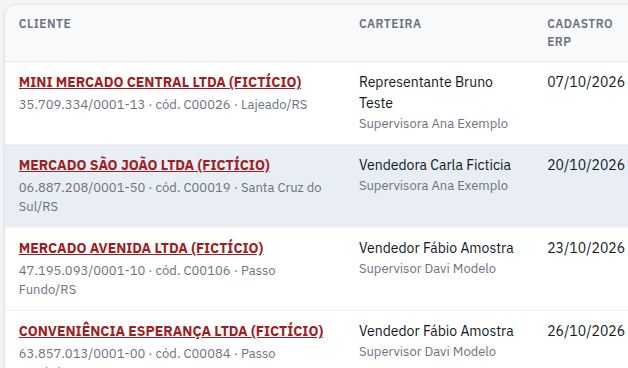
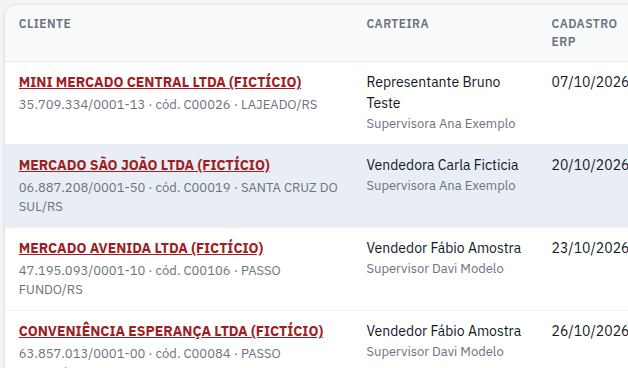
Explorar carteira sem nome cortado; municípios em maiúsculas; Atacado; Excel no Explorar pedidos; ondas liberadas no filtro do supervisor
- Explorar carteira: coluna do nome com a largura do nome mais longo aberto e recuo menor
- 0027: municípios em maiúsculas com acento (inclusive baixados) e Atacado Perueiro vira Atacado; importação já grava assim
- Explorar pedidos: sem lista na tela; botão Excel com os pedidos da linha escolhida
- Filtro de onda: representante/vendedor e supervisor só veem as ondas liberadas
- Ajuda, docs/03 e testes

diff --git a/web/js/telas/_pedidos-analise.js b/web/js/telas/_pedidos-analise.js
@@ -1,15 +1,13 @@
-// Corpo de Explorar pedidos: hierarquia de níveis, cards, gráficos, árvore e os pedidos da linha escolhida, como no Explorar carteira.
-// Tudo sobre os pedidos já lidos: arrastar níveis, abrir linhas, filtrar e buscar só redesenham no navegador.
-import { agruparPorRaiz, buscarPedidos, filtrarPedidos, montarArvorePedidos, NIVEIS_PEDIDOS, niveisPedidosPossiveis, resumirPedidos, rotuloGrupo, rotuloRepresentante } from '../../shared/pedidos.mjs';
+// Corpo de Explorar pedidos: hierarquia de níveis, cards, gráficos e árvore, como no Explorar carteira. Os pedidos da linha escolhida
+// saem no botão Excel, sem lista na tela. Tudo sobre os pedidos já lidos: arrastar níveis, abrir linhas e filtrar só redesenham no navegador.
+import { filtrarPedidos, montarArvorePedidos, NIVEIS_PEDIDOS, niveisPedidosPossiveis } from '../../shared/pedidos.mjs';
 import { veTodasEquipes } from '../../shared/perfis.mjs';
-import { h, montar, formatar, baixarCsv, semRolagem } from '../ui.js';
+import { h, montar, formatar, comEspera, aviso, semRolagem } from '../ui.js';
 import { significadoDe } from '../../shared/ajuda.mjs';
-import { hojeSaoPaulo } from '../../shared/datas.mjs';
-import { blocoNiveis, textoChave, cartoes, moeda, valor, razaoSocial, seloSituacao, seloDoPedido, tabelaPedidos } from './_pedidos.js';
+import { blocoNiveis, textoChave, cartoes, moeda, valor } from './_pedidos.js';
+import { baixarPedidos } from './_pedidos-excel.js';
 
 const CHAVE_NIVEIS = 'germani.pedidosNiveis';
-const LIMITE_RAMO = 100;
-const NOME_TIPO = { venda: 'Venda', investimento: 'Bonificação', ignorar: 'Não considerado' };
 const n0 = (x) => formatar.numero(Math.round(Number(x) || 0));
 const pct = (v) => (v == null ? '—' : `${v.toFixed(1).replace('.', ',')}%`);
 
@@ -30,7 +28,7 @@ export function renderAnalise(destino, { pedidos: todosPedidos, usuario, porGrup
   const pedidos = porGrupo ? todosPedidos : todosPedidos.filter((p) => p.prospect_id !== null);
   const possiveis = niveisPedidosPossiveis(usuario);
   const raiz = veTodasEquipes(usuario) ? 'Todos os pedidos' : usuario.perfil === 'supervisor' ? 'Pedidos da minha equipe' : 'Meus pedidos';
-  if (!memoria.has(destino)) memoria.set(destino, { niveis: lerNiveis(possiveis, ['supervisor', 'representante', 'cliente']), abertos: new Set(['']), sel: '', editarNiveis: false, busca: '', tipo: 'ambos', gruposAbertos: new Set() });
+  if (!memoria.has(destino)) memoria.set(destino, { niveis: lerNiveis(possiveis, ['supervisor', 'representante', 'cliente']), abertos: new Set(['']), sel: '', editarNiveis: false, tipo: 'ambos' });
   const estado = memoria.get(destino);
   const area = h('div', { id: 'analise-pedidos', class: 'ped-exp' });
   montar(destino, area);
@@ -52,9 +50,12 @@ export function renderAnalise(destino, { pedidos: todosPedidos, usuario, porGrup
         comQtd ? h('span', { class: 'qtd' }, n0(qtd)) : null, h('b', {}, valor(v)), h('span', { class: 'pct' }, pct(total ? (v / total) * 100 : null)))));
   }
 
-  // a busca é o mesmo campo entre os redesenhos: quem digita não perde o foco. Ela procura só na lista de pedidos
-  const campoBusca = h('input', { type: 'search', id: 'busca-pedidos', value: estado.busca, 'aria-label': 'Buscar pedido', placeholder: 'Pedido, cliente, CNPJ ou representante',
-    oninput: () => { estado.busca = campoBusca.value; desenhar(); campoBusca.focus(); } });
+  // Excel dos pedidos da linha escolhida (e do tipo marcado no topo): os pedidos já estão lidos, nada volta ao banco
+  let pedidosDaLinha = [];
+  const botaoExcel = h('button', { type: 'button', id: 'excel-pedidos', onclick: () => comEspera(botaoExcel, async () => {
+    await baixarPedidos(pedidosDaLinha);
+    aviso(`Excel gerado: ${n0(pedidosDaLinha.length)} pedidos.`);
+  }) });
 
   // filtro na mesma linha da chave Empresa ou Grupo
   function desenharFiltros() {
@@ -62,33 +63,6 @@ export function renderAnalise(destino, { pedidos: todosPedidos, usuario, porGrup
     montar(slotFiltros,
       h('div', { class: 'ped-chave ped-seg', role: 'group', 'aria-label': 'Tipo de pedido' },
         [['venda', 'Pedidos de venda', 'Venda'], ['investimento', 'Pedidos de bonificação', 'Bonificação'], ['ambos', 'Ambos']].map(([v, t, curto]) => opcao(`tipo-${v}`, estado.tipo === v, textoChave(t, curto), () => { estado.tipo = v; }))));
-  }
-
-  function listaDoRamo(doRamo, escolhido) {
-    const colunas = [{ titulo: 'Pedido', campo: 'numero', classe: 'num' }, { titulo: 'Data', valor: (x) => formatar.data(x.data_situacao), classe: 'num' },
-      { titulo: 'Razão social', valor: (x) => razaoSocial({ codigo: x.codigo_cliente, razao: x.razao_social, doc: x.cpf_cnpj, prospectId: x.prospect_id }), classe: 'rz' }, { titulo: 'Representante', valor: rotuloRepresentante },
-      { titulo: 'Tipo', valor: (x) => NOME_TIPO[x.tipo] ?? x.tipo, classe: 'cen' }, { titulo: 'Situação', valor: seloSituacao, classe: 'cen' }, { titulo: 'Pedido (R$)', valor: (x) => valor(x.valor_pedido), classe: 'num' },
-      { titulo: 'Faturado (R$)', valor: (x) => valor(x.valor_faturado), classe: 'num' }, { titulo: 'Na lista?', valor: seloDoPedido, classe: 'cen' }];
-    const csv = [{ titulo: 'Pedido', campo: 'numero' }, { titulo: 'Data', texto: (x) => formatar.data(x.data_situacao) }, { titulo: 'Código', campo: 'codigo_cliente' }, { titulo: 'Razão social', campo: 'razao_social' }, { titulo: 'CPF/CNPJ', campo: 'cpf_cnpj' },
-      { titulo: 'Representante', texto: rotuloRepresentante }, { titulo: 'Tipo', texto: (x) => NOME_TIPO[x.tipo] ?? x.tipo }, { titulo: 'Situação', campo: 'situacao_descricao' }, { titulo: 'Pedido', texto: (x) => valor(x.valor_pedido) }, { titulo: 'Faturado', texto: (x) => valor(x.valor_faturado) }];
-    // Ver por Grupo: uma linha por grupo, que abre os pedidos das empresas; empresa sem grupo fica solta, depois dos grupos
-    let exibidos = doRamo;
-    if (porGrupo) {
-      const { grupos, soltas } = agruparPorRaiz(doRamo, (x) => x.cpf_cnpj);
-      exibidos = [];
-      for (const g of grupos.sort((a, b) => String(a.linhas[0].razao_social).localeCompare(String(b.linhas[0].razao_social), 'pt-BR'))) {
-        const aberto = estado.gruposAbertos.has(g.raiz);
-        exibidos.push({ linhaGrupo: h('button', { type: 'button', class: 'abre-grupo', dados: { raiz: g.raiz }, 'aria-expanded': aberto ? 'true' : 'false', onclick: () => { if (aberto) estado.gruposAbertos.delete(g.raiz); else estado.gruposAbertos.add(g.raiz); desenhar(); } },
-          `${aberto ? '▼' : '▶'} ${rotuloGrupo(g)} · ${n0(g.linhas.length)} pedidos · venda ${moeda(resumirPedidos(g.linhas).venda.valor)}`) });
-        if (aberto) exibidos.push(...g.linhas);
-      }
-      exibidos.push(...soltas);
-    }
-    return h('div', { class: 'cartao' },
-      h('div', { class: 'ped-lista-topo' }, h('h2', { id: 'titulo-pedidos' }, `${escolhido.caminho ? `Pedidos de ${escolhido.rotulo}` : 'Todos os pedidos'} (${n0(doRamo.length)})`), campoBusca,
-        h('button', { class: 'secundario pequeno', id: 'csv-pedidos', onclick: () => baixarCsv(`pedidos-${hojeSaoPaulo()}.csv`, csv, doRamo) }, 'Baixar CSV')),
-      tabelaPedidos(colunas, exibidos.slice(0, LIMITE_RAMO), { id: 'pedidos-do-ramo', vazio: estado.busca ? `Nenhum pedido para "${estado.busca}".` : 'Nenhum pedido com esses filtros.' }),
-      exibidos.length > LIMITE_RAMO ? h('p', { class: 'ajuda', style: 'margin:12px 0 0' }, `Mostrando ${LIMITE_RAMO} de ${n0(exibidos.length)}. Clique numa linha da hierarquia para ver menos, ou baixe o CSV.`) : null);
   }
 
   function tela() {
@@ -136,8 +110,12 @@ export function renderAnalise(destino, { pedidos: todosPedidos, usuario, porGrup
         ['Digitado', valor(n.ind.digitado.valor)], ['Desistência', valor(n.ind.cancelado.valor)], ['Invest.', valor(n.ind.investimento.valor)], ['Invest. ÷ venda', pct(n.ind.pctInvestimento)],
         ['Próprio', valor(n.ind.propria)], ['Outro', valor(n.ind.outra)]].map(([r, v, classe]) => h(classe ? 'b' : 'span', { class: `num${classe ? ` ${classe}` : ''}`, dados: { r } }, v))));
 
-    return [...blocoNiveis({ estado, possiveis, nome, mudarNiveis, desenhar }), migalhas, numeros, h('div', { class: 'exp-quadros' }, venda, processo),
-      semRolagem(h('section', { class: 'cartao exp-arvore', 'aria-label': 'Árvore' }, h('div', { class: 'rolagem' }, cab, linhas), h('p', { class: 'ajuda exp-nota' }, 'Valores em R$.')), { cortados: '.exp-linha > .num' }), listaDoRamo(buscarPedidos(escolhido.pedidos, estado.busca), escolhido)];
+    pedidosDaLinha = escolhido.pedidos;
+    botaoExcel.disabled = !pedidosDaLinha.length;
+    botaoExcel.textContent = `Excel · ${n0(pedidosDaLinha.length)} ${pedidosDaLinha.length === 1 ? 'pedido' : 'pedidos'}`;
+    botaoExcel.title = `Pedidos de ${escolhido.rotulo}`;
+    return [...blocoNiveis({ estado, possiveis, nome, mudarNiveis, desenhar }), h('div', { class: 'rej-barra' }, migalhas, botaoExcel), numeros, h('div', { class: 'exp-quadros' }, venda, processo),
+      semRolagem(h('section', { class: 'cartao exp-arvore', 'aria-label': 'Árvore' }, h('div', { class: 'rolagem' }, cab, linhas), h('p', { class: 'ajuda exp-nota' }, 'Valores em R$.')), { cortados: '.exp-linha > .num' })];
   }
   desenharFiltros();
   if (!pedidos.length) {

diff --git a/web/js/telas/explorar.js b/web/js/telas/explorar.js
@@ -57,7 +57,17 @@ export async function render(conteudo, { usuario }) {
 
   const area = h('div', { class: 'explorar' });
   montar(conteudo, area);
-  const desenhar = () => montar(area, ...tela());
+  // a coluna do nome fica com a largura do nome mais longo aberto (com o recuo do nível): nenhum nome cortado
+  const larguraDoNome = () => {
+    const arvore = area.querySelector('#arvore-carteira');
+    if (!arvore) return;
+    const precisa = Math.max(0, ...[...arvore.querySelectorAll('.exp-linha:not(.cab) .ramo')].map((r) => {
+      const nome = r.querySelector('.nome');
+      return nome ? nome.offsetLeft - r.offsetLeft + nome.scrollWidth + 8 : 0;
+    }));
+    arvore.style.setProperty('--largura-ramo', `${Math.min(Math.max(precisa, 200), 420)}px`);
+  };
+  const desenhar = () => { montar(area, ...tela()); requestAnimationFrame(larguraDoNome); };
 
   function mudarNiveis(n) { estado.niveis = n; estado.abertos = new Set(['']); estado.sel = ''; guardarNiveis(n); desenhar(); }
 
@@ -178,7 +188,7 @@ export async function render(conteudo, { usuario }) {
     };
     const linhas = arvore.map((n) => h('div', { class: `exp-linha${n.caminho === escolhido.caminho ? ' escolhida' : ''}${n.profundidade ? '' : ' raiz'}`, dados: { caminho: n.caminho },
       style: `--prof:${n.profundidade}`, onclick: () => clicarLinha(n) },
-      h('span', { class: 'ramo', style: `padding-left:${n.profundidade * 24}px` },
+      h('span', { class: 'ramo', style: `padding-left:${n.profundidade * 14}px` },
         n.temFilhos ? h('button', { type: 'button', class: 'abre', 'aria-expanded': n.aberto ? 'true' : 'false', 'aria-label': `${n.aberto ? 'Fechar' : 'Abrir'} ${n.rotulo}`,
           onclick: (ev) => { ev.stopPropagation(); if (n.aberto) estado.abertos.delete(n.caminho); else estado.abertos.add(n.caminho); desenhar(); } }, n.aberto ? '▼' : '▶') : h('span', { class: 'abre vazio' }),
         h('button', { type: 'button', class: 'nome', title: n.rotulo }, n.rotulo)),
@@ -200,7 +210,7 @@ export async function render(conteudo, { usuario }) {
       h('p', { class: 'ajuda exp-sub' }, 'Do total até o cliente: escolha e ordene os níveis, abra os ramos; os números de cima seguem o ramo escolhido.'),
       niveis, niveisCelular, migalhas,
       h('div', { class: 'exp-quadros' }, totalidade, doProcesso),
-      h('section', { class: 'cartao exp-arvore', 'aria-label': 'Árvore' }, h('div', { class: 'rolagem' }, cab, linhas)),
+      h('section', { class: 'cartao exp-arvore', id: 'arvore-carteira', 'aria-label': 'Árvore' }, h('div', { class: 'rolagem' }, cab, linhas)),
       h('p', { class: 'ajuda' }, 'Números do resumo pronto no banco (atualizado a cada registro e importação) — a tela não lê a carteira inteira.'),
     ];
   }

diff --git a/web/js/telas/exportar.js b/web/js/telas/exportar.js
@@ -4,15 +4,15 @@ import { bancoApp, lerComCache } from '../db.js';
 import { consultaExportarBase } from '../../shared/administracao.mjs';
 import { consultaResumoRejeitados, NOME_TIPO_REJEICAO, prepararRejeitado, TIPOS_REJEICAO } from '../../shared/rejeitados.mjs';
 import { exportarRejeitados } from './_rejeitados-excel.js';
-import { consultaPedidos, rotuloRepresentante } from '../../shared/pedidos.mjs';
+import { baixarPedidos } from './_pedidos-excel.js';
+import { consultaPedidos } from '../../shared/pedidos.mjs';
 import { hojeSaoPaulo } from '../../shared/datas.mjs';
 import { h, montar, formatar, comEspera, aviso } from '../ui.js';
 import { baixarXlsx } from '../planilhas.js';
-import { documento, lerPedidos, valor } from './_pedidos.js';
+import { lerPedidos } from './_pedidos.js';
 
 const n0 = (x) => formatar.numero(Math.round(Number(x) || 0));
 const representante = (codigo, nome) => [codigo, nome].filter(Boolean).join(' - ');
-const NOME_TIPO_PEDIDO = { venda: 'Venda', investimento: 'Bonificação', ignorar: 'Não considerado' };
 
 export async function render(conteudo, { usuario }) {
   const db = await bancoApp();
@@ -60,12 +60,7 @@ export async function render(conteudo, { usuario }) {
   const botaoPed = h('button', { type: 'button', id: 'exportar-pedidos', onclick: () => comEspera(botaoPed, async () => {
     const todos = (await lerPedidos(db, consultaPedidos({ usuario, limite: 50000 }))).rows.filter((p) => p.prospect_id !== null);
     const lista = todos.filter((p) => !tipoPedido.value || p.tipo === tipoPedido.value);
-    await baixarXlsx(`pedidos-${hojeSaoPaulo()}.xlsx`, [
-      { titulo: 'Pedido', valor: (p) => p.numero, largura: 12 }, { titulo: 'Data', valor: (p) => formatar.data(p.data_situacao), largura: 12 },
-      { titulo: 'Código', valor: (p) => p.codigo_cliente ?? '', largura: 10 }, { titulo: 'Razão social', valor: (p) => p.razao_social, largura: 40 }, { titulo: 'CNPJ', valor: (p) => documento(p.cpf_cnpj), largura: 20 },
-      { titulo: 'Representante', valor: rotuloRepresentante, largura: 30 }, { titulo: 'Tipo', valor: (p) => NOME_TIPO_PEDIDO[p.tipo] ?? p.tipo, largura: 14 },
-      { titulo: 'Situação', valor: (p) => p.situacao_descricao ?? '', largura: 18 }, { titulo: 'Pedido (R$)', valor: (p) => valor(p.valor_pedido), largura: 14 }, { titulo: 'Faturado (R$)', valor: (p) => valor(p.valor_faturado), largura: 14 },
-    ], lista, { aba: 'Pedidos' });
+    await baixarPedidos(lista);
     aviso(`Pedidos exportados: ${n0(lista.length)}.`);
   }) }, 'Exportar Excel');
 

diff --git a/web/js/telas/_lista.js b/web/js/telas/_lista.js
@@ -12,6 +12,7 @@ import { h, montar, mensagem, formatar, comEspera } from '../ui.js';
 import { gerarPdfLista } from '../relatorio.js';
 import { icone } from '../menu.js';
 import { consultaResumo, opcoesEmCascata } from '../../shared/explorar.mjs';
+import { consultaOndasLiberadas, ondasDoFiltro } from '../../shared/ondas.mjs';
 import { endereco, gravarLote, lerEstado, lerLote, nomeStatus as nomeDoStatus, papelDoAgente, seloStatus } from './_carteira.js';
 import { ORIGENS_SEM_INTERESSE } from '../../shared/status.mjs';
 
@@ -44,9 +45,10 @@ export async function renderComputador(conteudo, { usuario, parametros }) {
   // nada é lido da lista enquanto os filtros não forem aplicados no botão Buscar (?ver=1); o representante já entra com a
   // própria carteira. As opções dos filtros saem do resumo pronto (em cache) e mudam no navegador, sem ir ao banco.
   const ler = (e.ver || usuario.perfil === 'vendedor') && !falta.length;
-  const [lidas, resumo] = await Promise.all([
+  const [lidas, resumo, liberadas] = await Promise.all([
     ler ? db.execute(consulta).then((r) => r.rows) : [],
     lerComCache(db, consultaResumo({ usuario }), 300).then((r) => r.rows),
+    lerComCache(db, consultaOndasLiberadas(), 300).then((r) => r.rows[0]?.valor ?? 'todas'),
   ]);
   const codigoDe = new Map(resumo.map((l) => [Number(l.vendedor_id), l.vendedor_codigo]));
 
@@ -75,6 +77,7 @@ export async function renderComputador(conteudo, { usuario, parametros }) {
   async function desenharFiltros() {
     const f = rascunho.filtros;
     const opcoes = opcoesEmCascata(resumo, f);
+    opcoes.ondas = ondasDoFiltro(opcoes.ondas, usuario, liberadas);   // ondas não liberadas fora do filtro do representante e do supervisor
     const bairros = f.cidadeBusca ? await bairrosDe(f.cidadeBusca, f.uf) : [];
     const grupos = [];
     if (gestao) {

diff --git a/web/js/telas/_pedidos-excel.js b/web/js/telas/_pedidos-excel.js
@@ -1,0 +1,21 @@
+// Excel dos pedidos (Explorar pedidos e aba Exportar): um pedido por linha, com cliente, quem vendeu, situação e valores.
+import { rotuloRepresentante } from '../../shared/pedidos.mjs';
+import { hojeSaoPaulo } from '../../shared/datas.mjs';
+import { formatar } from '../ui.js';
+import { baixarXlsx } from '../planilhas.js';
+import { documento, valor } from './_pedidos.js';
+
+const NOME_TIPO = { venda: 'Venda', investimento: 'Bonificação', ignorar: 'Não considerado' };
+const NA_LISTA = { propria: 'Na lista', outra: 'Fora da lista' };
+const COLUNAS = [
+  { titulo: 'Pedido', valor: (p) => p.numero, largura: 12 }, { titulo: 'Data', valor: (p) => formatar.data(p.data_situacao), largura: 12 },
+  { titulo: 'Código', valor: (p) => p.codigo_cliente ?? '', largura: 10 }, { titulo: 'Razão social', valor: (p) => p.razao_social, largura: 40 },
+  { titulo: 'CNPJ', valor: (p) => documento(p.cpf_cnpj), largura: 20 }, { titulo: 'Quem vendeu', valor: rotuloRepresentante, largura: 30 },
+  { titulo: 'Dono da carteira', valor: (p) => [p.dono_codigo, p.dono_nome].filter(Boolean).join(' - '), largura: 30 },
+  { titulo: 'Na lista?', valor: (p) => (p.prospect_id === null ? 'Filial do grupo' : NA_LISTA[p.relacao] ?? ''), largura: 14 },
+  { titulo: 'Tipo', valor: (p) => NOME_TIPO[p.tipo] ?? p.tipo, largura: 14 }, { titulo: 'Situação', valor: (p) => p.situacao_descricao ?? '', largura: 18 },
+  { titulo: 'Pedido (R$)', valor: (p) => valor(p.valor_pedido), largura: 14 }, { titulo: 'Faturado (R$)', valor: (p) => valor(p.valor_faturado), largura: 14 },
+];
+
+/** Baixa os pedidos em Excel (a lista já filtrada por quem chama). */
+export const baixarPedidos = (pedidos) => baixarXlsx(`pedidos-${hojeSaoPaulo()}.xlsx`, COLUNAS, pedidos, { aba: 'Pedidos' });

diff --git a/web/js/telas/_carteira.js b/web/js/telas/_carteira.js
@@ -2,6 +2,7 @@
 import { h, selo } from '../ui.js';
 import { ORDENACOES } from '../../shared/carteira.mjs';
 import { consultaResumo, opcoesEmCascata } from '../../shared/explorar.mjs';
+import { consultaOndasLiberadas, ondasDoFiltro } from '../../shared/ondas.mjs';
 import { lerComCache } from '../db.js';
 
 const FILTROS = ['cidadeBusca', 'uf', 'bairroBusca', 'onda', 'segmento', 'rota', 'subrota', 'status', 'supervisorId', 'vendedorId', 'somenteRetornos', 'dataDe', 'dataAte'];
@@ -66,8 +67,10 @@ export function endereco(e, muda = {}) {
 // Opções dos filtros em cascata: vêm do resumo pronto (resumo_carteira, o mesmo do Explorar e em cache), nunca da
 // carteira inteira — cada filtro mostra só o que existe com os outros escolhidos (shared/explorar.mjs).
 export async function opcoesDosFiltros(db, usuario, filtros) {
-  const linhas = (await lerComCache(db, consultaResumo({ usuario }), 300)).rows;
-  return opcoesEmCascata(linhas, filtros);
+  const [linhas, liberadas] = await Promise.all([lerComCache(db, consultaResumo({ usuario }), 300).then((r) => r.rows),
+    lerComCache(db, consultaOndasLiberadas(), 300).then((r) => r.rows[0]?.valor ?? 'todas')]);
+  const opcoes = opcoesEmCascata(linhas, filtros);
+  return { ...opcoes, ondas: ondasDoFiltro(opcoes.ondas, usuario, liberadas) };   // ondas não liberadas fora do filtro do representante e do supervisor
 }
 
 export const papelDoAgente = (v) => (v.perfil === 'supervisor' ? 'Supervisor' : v.tipo_atuacao === 'vendedor' ? 'Vendedor' : 'Representante');

diff --git a/web/css/app.css b/web/css/app.css
@@ -969,3 +969,8 @@ button.chip-situacao.ativa:hover { background: var(--destaque-claro); color: var
 .imp-extra summary { cursor: pointer; font-weight: 600; min-height: 32px; } .imp-extra[open] summary { margin-bottom: 12px; }
 .rej-barra { display: flex; flex-wrap: wrap; gap: 8px 12px; align-items: center; justify-content: space-between; margin-bottom: 12px; }
 .rej-barra .exp-caminho { margin: 0; }
+
+/* Explorar carteira: a coluna do nome com a largura do nome mais longo aberto (sem cortar), no computador */
+@media (min-width: 701px) {
+  #arvore-carteira .exp-linha { grid-template-columns: var(--largura-ramo, minmax(170px, 240px)) repeat(3, minmax(84px, 1fr)) repeat(6, minmax(66px, 1fr)) repeat(2, minmax(96px, 1fr)); min-width: calc(var(--largura-ramo, 240px) + 960px); }
+}

diff --git a/docs/03-regras-negocio.md b/docs/03-regras-negocio.md
@@ -181,6 +181,8 @@ vendedor, supervisor, cidade, bairro, onda e UF. O agrupamento por **rota consid
 > Mudança em relação à especificação original: "conversão declarada" (venda informada pelo vendedor)
 > deixou de existir — a venda só é registrada pelo arquivo de pedidos do ERP.
 
+**Municípios em maiúsculas** (0027): o nome do município fica sempre em maiúsculas, com acento, inclusive dos baixados; a importação da base já grava assim. **Segmento:** "Atacado Perueiro" passa a ser "Atacado" (também nas próximas importações).
+
 ## 6. Lista de prospects e acompanhamento — representante × vendedor
 
 Implementação: [`shared/carteira.mjs`](../shared/carteira.mjs) · testes: [`test/carteira.test.mjs`](../test/carteira.test.mjs).
@@ -196,7 +198,7 @@ Todos os registros da base são **prospects** — para representante e para vend
 vê, para liberar a base aos poucos. Vale para quem ainda está na lista (Não contactado e Em prospecção), na Lista principal, na ficha
 e no Explorar carteira; quem já foi atendido aparece sempre, em qualquer onda. "Sem onda" também é uma opção. Supervisor, gerente,
 financeiro e administrador veem todas. Padrão `todas` (sem restrição); o banco aceita só `todas` ou uma lista. A mudança aparece para
-o representante na próxima leitura da tela (até 5 minutos, pelo cache).
+o representante na próxima leitura da tela (até 5 minutos, pelo cache). No filtro de onda (Lista principal), o representante/vendedor e o **supervisor** só veem as ondas liberadas.
 
 Entrar em negociação **tira o cliente da lista principal e o leva para o acompanhamento**. Toda essa
 movimentação conta sempre nos indicadores.
@@ -544,7 +546,7 @@ Um único conteúdo alimenta três saídas, para não haver textos diferentes: a
 
 ## 14. Pedidos do ERP (migração 0022 · `shared/importar-pedidos.mjs`, `shared/pedidos.mjs`)
 
-Importação: docs/05 §6. Tela: **Explorar pedidos** (`#/pedidos`), o que foi vendido, numa tela só, sem abas. Dois gráficos: **Faturamento da venda** (só a venda válida: faturado × em carteira, a faturar) e **O que aconteceu com os pedidos de venda** (todos os pedidos de venda: venda válida, digitado e desistência, com as colunas Pedidos, Valor e %).
+Importação: docs/05 §6. Tela: **Explorar pedidos** (`#/pedidos`), o que foi vendido, numa tela só, sem abas. Sem lista de pedidos na tela: o botão **Excel** (ao lado do caminho) baixa os pedidos da linha escolhida, do tipo marcado no topo (pedido, data, cliente, quem vendeu, dono da carteira, na lista?, tipo, situação e valores); os pedidos já foram lidos para os números, nada volta ao banco. Dois gráficos: **Faturamento da venda** (só a venda válida: faturado × em carteira, a faturar) e **O que aconteceu com os pedidos de venda** (todos os pedidos de venda: venda válida, digitado e desistência, com as colunas Pedidos, Valor e %).
 
 **Cada tela responde a uma pergunta.** Explorar carteira: como está a base? · Lista principal: quem procurar? · Acompanhamento: o que está em andamento? · Explorar pedidos: o que foi vendido?
 
